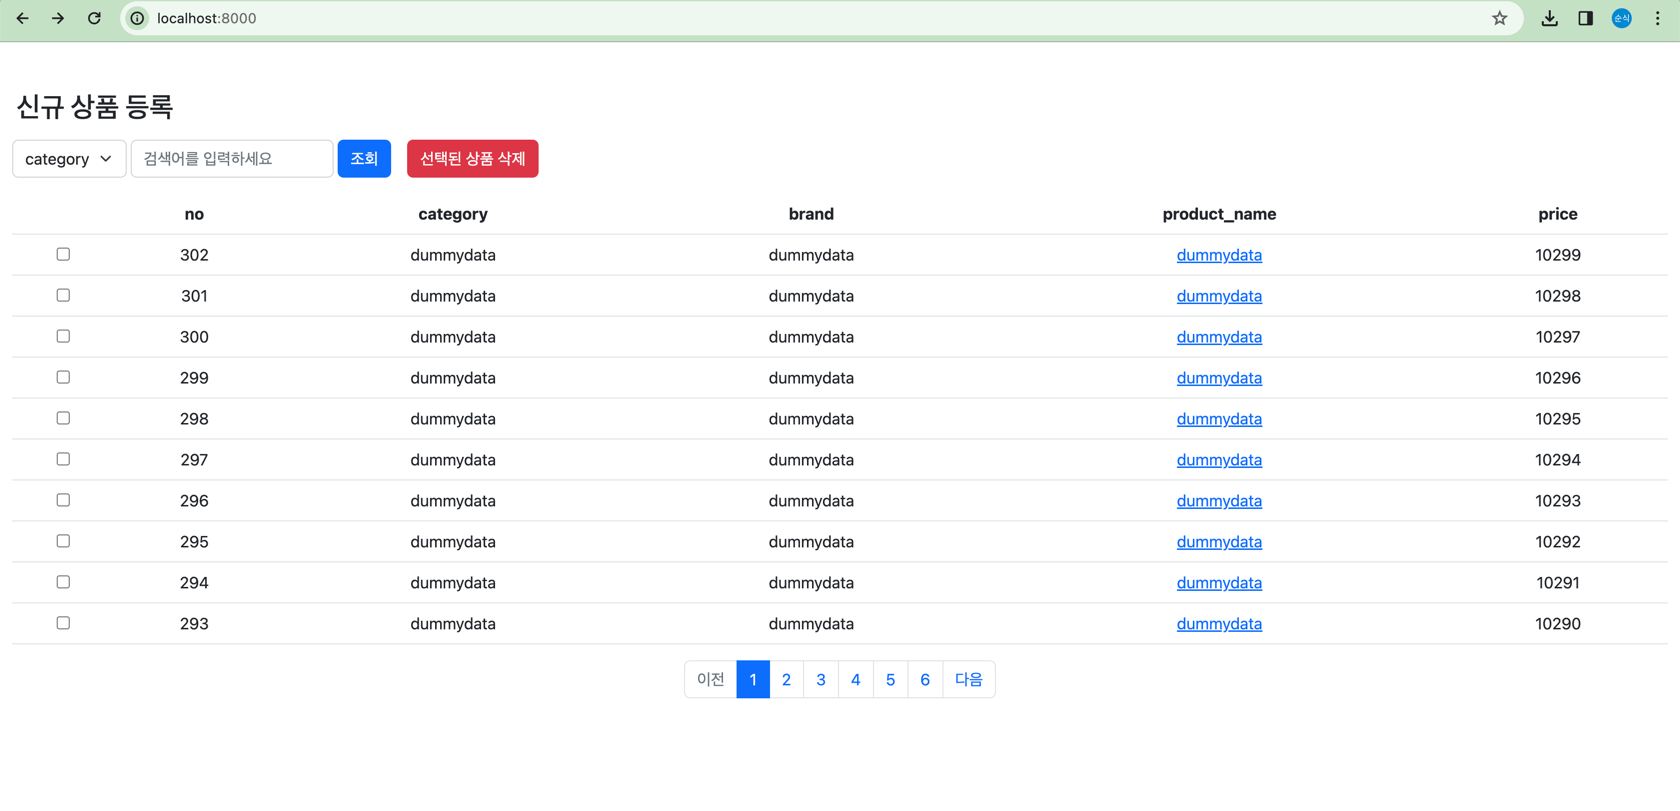
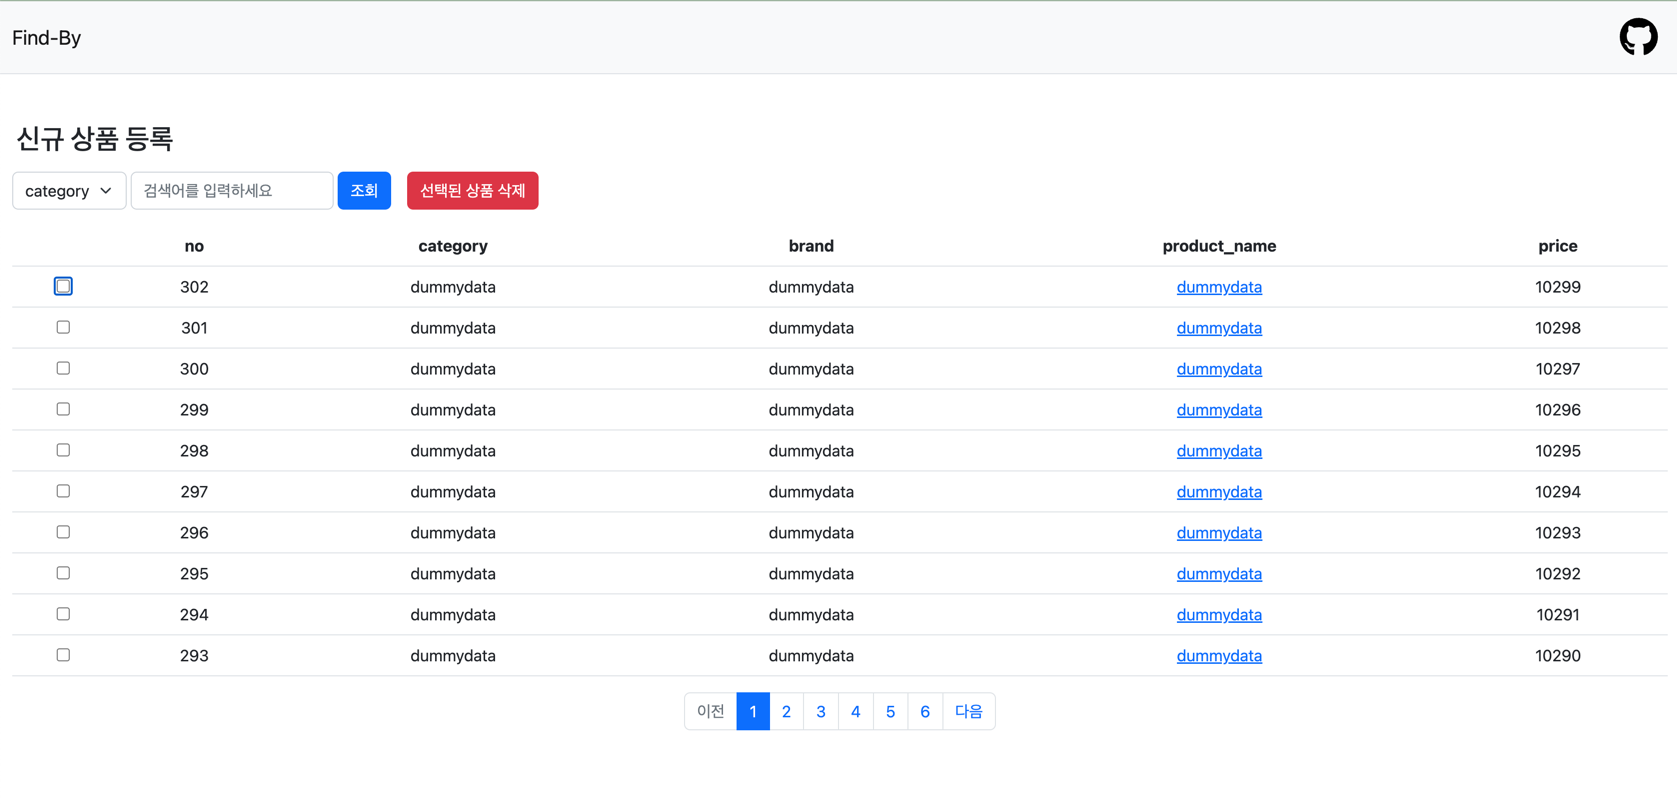
[feature-4-nav] 상단 네비게이션 바 생성
- app_name을 누르면 index페이지로 이동
- 오른쪽 github logo를 누르면 개발자 깃허브 이동

diff --git a/templates/navbar.html b/templates/navbar.html
@@ -1,0 +1,25 @@
+<!-- navigation bar -->
+<nav class="navbar navbar-expand-lg navbar-light bg-light border-bottom">
+    <div class="container-fluid">
+        <a class="navbar-brand" href="{% url 'findby:index' %}">Find-By</a>
+        <button class="navbar-toggler" type="button"
+                data-bs-toggle="collapse"
+                data-bs-target="#navbarSupportedContent"
+                aria-controls="navbarSupportedContent"
+                aria-expanded="false"
+                aria-label="Toggle navigation">
+            <span class="navbar-toggler-icon"></span>
+        </button>
+        <div class="collapse navbar-collapse justify-content-end" id="collapsibleNavbar">
+            <ul class="navbar-nav">
+                <li>
+                    <a class="nav-link" href="https://github.com/sunsik17">
+                        <svg width="40" height="40" viewBox="0 0 520 520" xmlns="http://www.w3.org/2000/svg">
+                            <path d="m165.9 397.4c0 2-2.3 3.6-5.2 3.6-3.3.3-5.6-1.3-5.6-3.6 0-2 2.3-3.6 5.2-3.6 3-.3 5.6 1.3 5.6 3.6zm-31.1-4.5c-.7 2 1.3 4.3 4.3 4.9 2.6 1 5.6 0 6.2-2s-1.3-4.3-4.3-5.2c-2.6-.7-5.5.3-6.2 2.3zm44.2-1.7c-2.9.7-4.9 2.6-4.6 4.9.3 2 2.9 3.3 5.9 2.6 2.9-.7 4.9-2.6 4.6-4.6-.3-1.9-3-3.2-5.9-2.9zm65.8-383.2c-138.7 0-244.8 105.3-244.8 244 0 110.9 69.8 205.8 169.5 239.2 12.8 2.3 17.3-5.6 17.3-12.1 0-6.2-.3-40.4-.3-61.4 0 0-70 15-84.7-29.8 0 0-11.4-29.1-27.8-36.6 0 0-22.9-15.7 1.6-15.4 0 0 24.9 2 38.6 25.8 21.9 38.6 58.6 27.5 72.9 20.9 2.3-16 8.8-27.1 16-33.7-55.9-6.2-112.3-14.3-112.3-110.5 0-27.5 7.6-41.3 23.6-58.9-2.6-6.5-11.1-33.3 2.6-67.9 20.9-6.5 69 27 69 27 20-5.6 41.5-8.5 62.8-8.5s42.8 2.9 62.8 8.5c0 0 48.1-33.6 69-27 13.7 34.7 5.2 61.4 2.6 67.9 16 17.7 25.8 31.5 25.8 58.9 0 96.5-58.9 104.2-114.8 110.5 9.2 7.9 17 22.9 17 46.4 0 33.7-.3 75.4-.3 83.6 0 6.5 4.6 14.4 17.3 12.1 100-33.2 167.8-128.1 167.8-239 0-138.7-112.5-244-251.2-244zm-147.6 344.9c-1.3 1-1 3.3.7 5.2 1.6 1.6 3.9 2.3 5.2 1 1.3-1 1-3.3-.7-5.2-1.6-1.6-3.9-2.3-5.2-1zm-10.8-8.1c-.7 1.3.3 2.9 2.3 3.9 1.6 1 3.6.7 4.3-.7.7-1.3-.3-2.9-2.3-3.9-2-.6-3.6-.3-4.3.7zm32.4 35.6c-1.6 1.3-1 4.3 1.3 6.2 2.3 2.3 5.2 2.6 6.5 1 1.3-1.3.7-4.3-1.3-6.2-2.2-2.3-5.2-2.6-6.5-1zm-11.4-14.7c-1.6 1-1.6 3.6 0 5.9s4.3 3.3 5.6 2.3c1.6-1.3 1.6-3.9 0-6.2-1.4-2.3-4-3.3-5.6-2z"></path>
+                        </svg>
+                    </a>
+                </li>
+            </ul>
+        </div>
+    </div>
+</nav>

diff --git a/templates/base.html b/templates/base.html
@@ -12,6 +12,7 @@
     <title>find kream product</title>
 </head>
 <body>
+{% include "navbar.html" %}
 <!-- 기본 템플릿 안에 삽입될 내용을 작성 -->
 {% block content %}
 {% endblock %}

diff --git a/README.md b/README.md
@@ -15,7 +15,13 @@
 
 ---
 
-- [x] 페이지 네이션 
+- [x] nav
+![img.png](readme_image/img_6.png)
+
+---
+
+- [x] 페이지 네이션
+
 - 31(마지막) 페이지
 ![img.png](readme_image/img_4.png) 
 - 30 페이지
